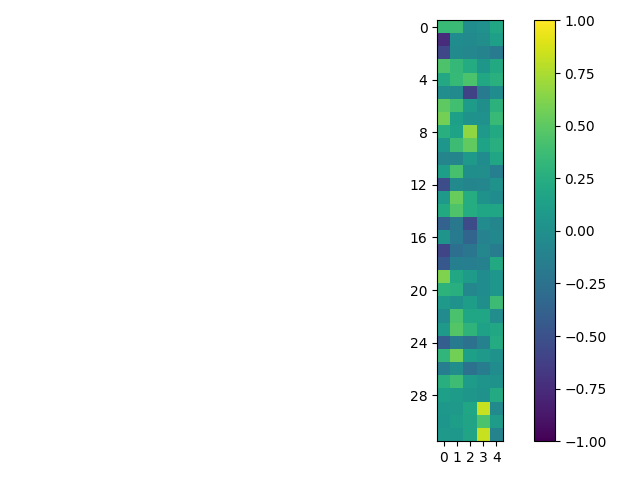
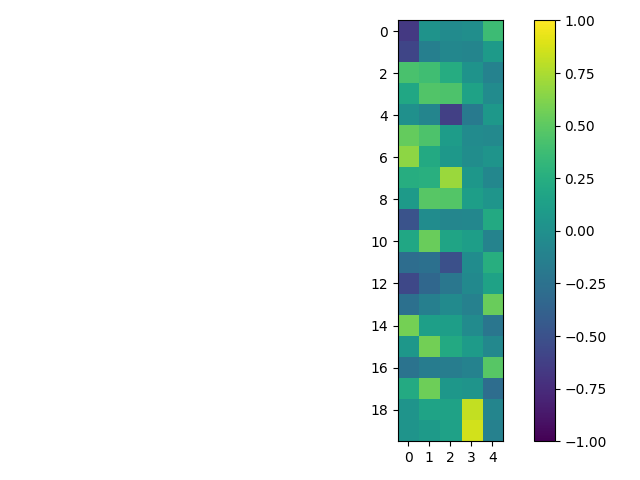
Adds iterative process of discarding questions
Adds steps 1-5 from Section II.A from Eaton et al. 2019.

Changed region(s): [[0.5625, 0.0312, 0.8125, 0.9688]]

diff --git a/SAGE.py b/SAGE.py
@@ -39,7 +39,6 @@ def main():
     df = pd.read_csv(my_file, encoding = "utf-8", usecols=lambda x: x not in ExcludedHeaders, skiprows=1)
     df = df.drop([0])
     df.rename(columns=Demo_dict, inplace=True)
-    print(list(df))
 
     # ATTRIBUTE UNIQUE NUMBER TO INTERVENTION
     df_inter = pd.read_excel('Section Intervention Assignments.xlsx', header = None, names=['Unique', 'Day', 'Time', 'Room', 'Intervention Number', 'Intervention'])
@@ -50,8 +49,8 @@ def main():
     # dfG = df[df['Gender'].str.contains('Male', na=False)].copy()
     # dfR = df[df['Race or ethnicity'].str.contains('White', na=False)].copy()
     df_norm = Prepare_data(df) # Takes the raw csv file and converts the data to integer results and combines inversely worded questions into one
-    Data_statistics(df_norm) # Tabulates counts and calcualtes statistics on responses to each question 
-    SAGE_validation(df_norm) # Confirmatory factor analysis on questions taken from SAGE
+    # Data_statistics(df_norm) # Tabulates counts and calcualtes statistics on responses to each question 
+    # SAGE_validation(df_norm) # Confirmatory factor analysis on questions taken from SAGE
     EFA(df_norm) # Exploratory factor analysis on questions taken from SAGE
     # PCA(df_norm) # Principal component analysis on questions taken from SAGE
     # Gender_differences(df_norm) # Checks if there are differences in mean of responses due to Gender
@@ -369,23 +368,11 @@ def EFA(df_norm):
     save_fig(fig,'SAGE_CorrM_0.4')
     plt.clf()
 
-    print('Statistical Tests')
-
-    # KAISER-MEYER-OLKIN MEASURE OF SAMPLING ADEQUACY
-    kmo_all, kmo_model = calculate_kmo(df_SAGE)
-    print('KMO Measure of Sampling Adequacy: ', kmo_model)
-    print(kmo_all)
-
-    # BARTLETT'S TEST
-    chi_square_value, p_value = calculate_bartlett_sphericity(df_SAGE)
-    print('Bartletts Chi Square =', chi_square_value, '; p-value: {0:.2E}'.format(p_value))
-
-    # EFA
-    print('EFA')
-    efa = FactorAnalyzer(rotation=None)
-    efa.fit(df_SAGE)
-    ev, v = efa.get_eigenvalues()
-    print(pd.DataFrame(efa.get_communalities(),index=df_SAGE.columns,columns=['Communalities']))
+    # Scree Plot
+    print('Scree Plot')
+    fa = FactorAnalyzer(rotation=None)
+    fa.fit(df_SAGE)
+    ev, v = fa.get_eigenvalues()
 
     fig, ax = plt.subplots()
     plt.plot(ev, '.-', linewidth=2, color='blue')
@@ -399,12 +386,89 @@ def EFA(df_norm):
     save_fig(fig, 'SAGE_Scree')
     plt.clf()
 
-    for i in range(2,8):
-        # Based on the scree plot and Kaiser criterion, n=6 (or 7)
-        fa = FactorAnalyzer(n_factors=i, rotation='varimax')
-        fa.fit(df_SAGE)
-        m = pd.DataFrame(fa.loadings_)
-        # m.to_csv('ExportedFiles/SAGE_EFA.csv', encoding = "utf-8", index=True)
+    print('EFA')
+    # Follows Section II.A from Eaton et al. 2019
+    # 1. Calculate the Kaiser-Meyer-Olkin (KMO) values for every item. If any items have a KMO below the cutoff value, then the item with the lowest value is removed and the step is repeated. KMO values above 0.6 are kept, though above 0.8 are preferred.
+    # 2. Check whether the items can be factored using Bartlett's test of sphericity. A low p-score indicates that factor analysis can be performed.
+    # 3. Calculate the EFA model using factoring and a specified number of factors.
+    # 4. Calculate the commonalities, which are the proportion of the item's variance explained by the factors. If any item is below the cutoff (<0.4), then the item with the lowest value is dropped and then restart at Step 1.
+    # 5. Calculate the item loadings. If there are items that fail to load to any factor, then remove the item with the smallest max loading and then restart at Step 1.
+    # 6. Create a model by placing each item onto the factor that contains the item's largest loading. If any items load equally onto more than one factor, then add to all factors where this is the case.
+    # 7. Fit this model to the original data using CFA and extract a fit statistic (confirmatory fit index, Akaike information criterion, or similar).
+    # 8. Change the number of factors and repeat the above steps.
+    # 9. Plot the fit statistic vs the number of factors. The model with the local minimum index is the preferred model.
+    min_kmo = 0.6
+    min_communalities = 0.3
+    min_loadings = 0.4
+
+    for n in range(2,10):
+        print('Number of factors:', n)
+        # Create a copy of the data so that we don't remove data when dropping columns
+        dfn = df_SAGE.copy()
+        dropped = []
+
+        # 5. Loadings loop
+        loadings_test = True
+        while loadings_test:
+            # 4. Communalities loop
+            communs_test = True
+            while communs_test:
+                # 1. KMO loop
+                kmo_test = True
+                while kmo_test:
+                    kmo_all, kmo_model = calculate_kmo(dfn)
+
+                    if abs(kmo_all.min()) < min_kmo:
+                        print('Lowest KMO:', kmo_all.min())
+                        dropped.append(dfn.columns[kmo_all.argmin()])
+                        dfn.drop(dfn.columns[kmo_all.argmin()], axis=1, inplace=True)
+                    else:
+                        kmo_test = False
+                # print('KMO Measure of Sampling Adequacy: ', kmo_model)
+                # print(kmo_all)
+
+                # 2. BARTLETT
+                chi_square_value, p_value = calculate_bartlett_sphericity(dfn)
+                if p_value > 0.2:
+                    print("Bartlett's Test of Sphericity failed with p-value", p_value)
+                # else:
+                #     print("Bartlett's Chi Square =", chi_square_value, "; p-value: {0:.3E}".format(p_value))
+
+                # 3. EFA
+                efa = FactorAnalyzer(n_factors=n, rotation='varimax')
+                efa.fit(dfn)
+
+                # 4. Communalities
+                communs = efa.get_communalities()
+
+                if abs(communs.min()) < min_communalities:
+                    print('Lowest communality:', communs.min())
+                    dropped.append(dfn.columns[communs.argmin()])
+                    dfn.drop(dfn.columns[communs.argmin()], axis=1, inplace=True)
+                else:
+                    communs_test = False
+            # print(communs)
+
+            # 5. Item loadings
+            if abs(efa.loadings_.min()) < min_loadings:
+                print('Lowest item loading:', efa.loadings_.min())
+                dropped.append(dfn.columns[efa.loadings_.argmin()])
+                dfn.drop(dfn.columns[efa.loadings_.argmin()], axis=1, inplace=True)
+            else:
+                loadings_test = False
+
+        print('Dropped columns:', dropped)
+        m = pd.DataFrame(efa.loadings_)
+        print(m)
+
+        labels = list(dfn)
+        file_string = image_dir + '/EFA_labels_n=' + str(n) + '.txt'
+        with open(file_string, 'w') as f:
+            original_stdout = sys.stdout # Save a reference to the original standard output
+            sys.stdout = f # Change the standard output to the file we created.
+            for number, label in enumerate(labels):
+                print(number, label)
+            sys.stdout = original_stdout # Reset the standard output to its original value
 
         fig, ax = plt.subplots()
         plt.imshow(m, cmap="viridis", vmin=-1, vmax=1)
@@ -412,8 +476,8 @@ def EFA(df_norm):
         ax.yaxis.set_major_locator(matplotlib.ticker.MaxNLocator(integer=True))
         ax.xaxis.set_major_locator(matplotlib.ticker.MaxNLocator(integer=True))
         plt.tight_layout()
-        file_string = 'SAGE_EFA_n=' + str(i)
-        save_fig(fig, file_string)
+        file_string1 = 'SAGE_EFA_n=' + str(n)
+        save_fig(fig, file_string1)
         plt.clf()
 
         truncm = m[abs(m)>=0.4]
@@ -423,9 +487,53 @@ def EFA(df_norm):
         ax.yaxis.set_major_locator(matplotlib.ticker.MaxNLocator(integer=True))
         ax.xaxis.set_major_locator(matplotlib.ticker.MaxNLocator(integer=True))
         plt.tight_layout()
-        file_string2 = 'SAGE_EFA_0.4_n=' + str(i)
+        file_string2 = 'SAGE_EFA_0.4_n=' + str(n)
         save_fig(fig, file_string2)
         plt.clf()
+
+        # # 6. Place loadings into model
+        # model_dict = {
+        # 'F1': ['When I work in a group I do higher quality work.', 'The material is easier to understand when I work with other students.',
+        #         'My group members help explain things that I do not understand.', 'I feel working in groups is a waste of time.', 'The work takes more time to complete when I work with other students.',
+        #         'The workload is usually less when I work with other students.'], 
+        # 'F2': ['My group members respect my opinions.', 'My group members make me feel that I am not as smart as they are.', 'My group members do not care about my feelings.',
+        #         'I feel I am part of what is going on in the group.', 'When I work in a group, I am able to share my ideas.'], 
+        # 'F3': ['Everyone’s ideas are needed if we are going to be successful.', 'We cannot complete the assignment unless everyone contributes.', 'I let the other students do most of the work.',
+        #         'I also learn when I teach the material to my group members.', 'I learn to work with students who are different from me.'], 
+        # 'F4': ['I become frustrated when my group members do not understand the material.', 'When I work with other students, we spend too much time talking about other things.',
+        #         'I have to work with students who are not as smart as I am.']
+        # }        
+
+        # # 7. Fit model using CFA and extract fit statistic
+        # model_spec = ModelSpecificationParser.parse_model_specification_from_dict(df_SAGE_cfa,model_dict)
+
+        # cfa = ConfirmatoryFactorAnalyzer(model_spec, disp=False)
+        # cfa.fit(df_SAGE_cfa)
+
+        # df_cfa = pd.DataFrame(cfa.loadings_,index=model_spec.variable_names)
+        # df_cfa.round(decimals = 4).to_csv('ExportedFiles/SAGE_CFA.csv', encoding = "utf-8", index=True)
+        
+        # trunc_cfa = np.ma.masked_where(abs(df_cfa) < 0.0001, df_cfa)
+        # fig, ax = plt.subplots()
+        # plt.imshow(trunc_cfa, cmap="viridis", vmin=-1, vmax=1)
+        # ax.yaxis.set_major_locator(matplotlib.ticker.MaxNLocator(integer=True))
+        # ax.xaxis.set_major_locator(matplotlib.ticker.MaxNLocator(integer=True))
+        # plt.colorbar()
+        # plt.tight_layout()
+        # save_fig(fig, 'SAGE_CFA')
+        # plt.clf()
+
+        # trunc_cfa = np.ma.masked_where(abs(df_cfa) < 0.4, df_cfa)
+        # fig, ax = plt.subplots()
+        # plt.imshow(trunc_cfa, cmap="viridis", vmin=-1, vmax=1)
+        # plt.colorbar()
+        # ax.yaxis.set_major_locator(matplotlib.ticker.MaxNLocator(integer=True))
+        # ax.xaxis.set_major_locator(matplotlib.ticker.MaxNLocator(integer=True))
+        # plt.tight_layout()
+        # save_fig(fig, 'SAGE_CFA_0.4')
+        # plt.clf()
+
+    # 9. Plot fit statistic vs number of factors        
 
 def PCA(df_norm):
     # REMOVE DEMOGRAPHIC QUESTIONS
